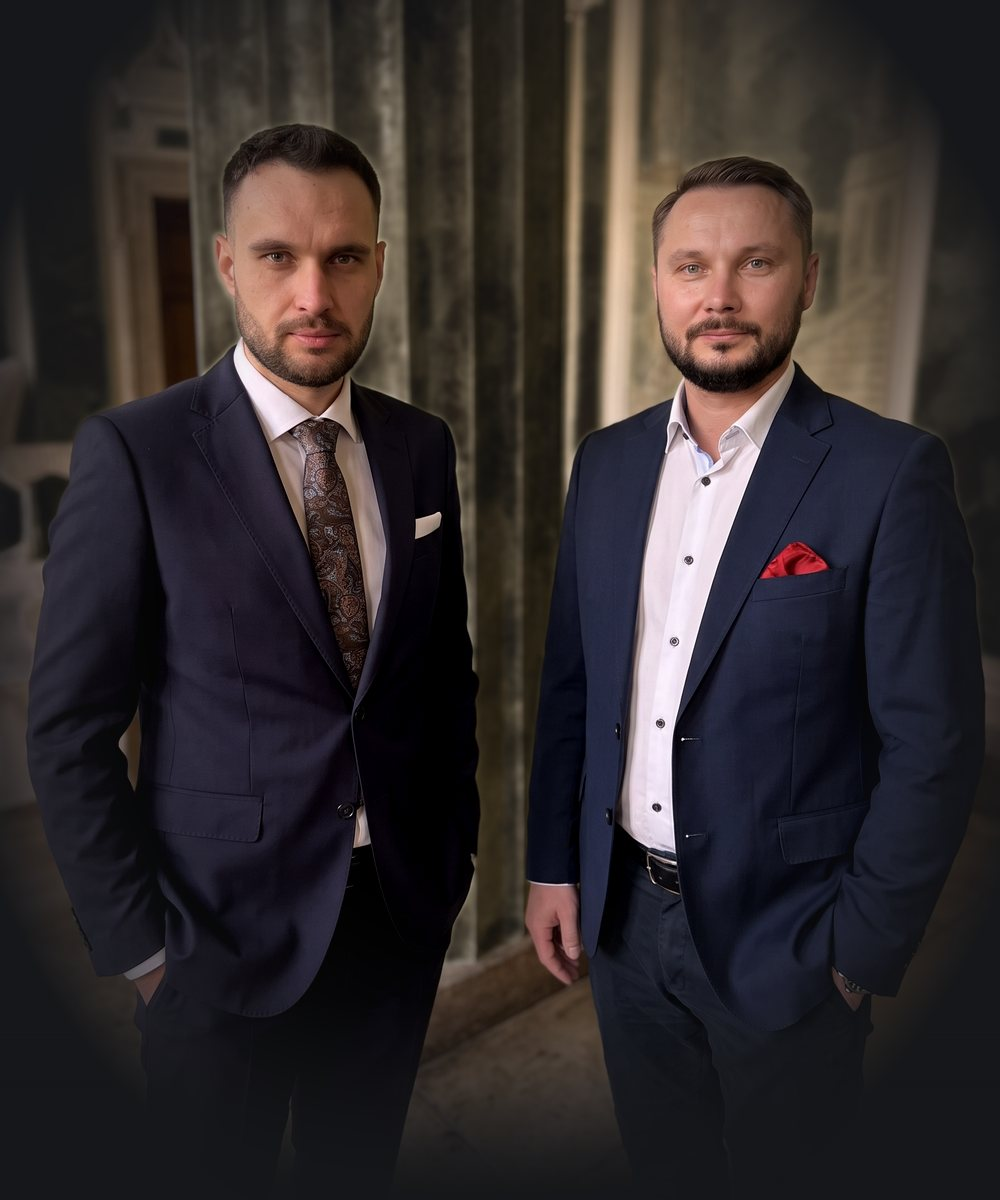
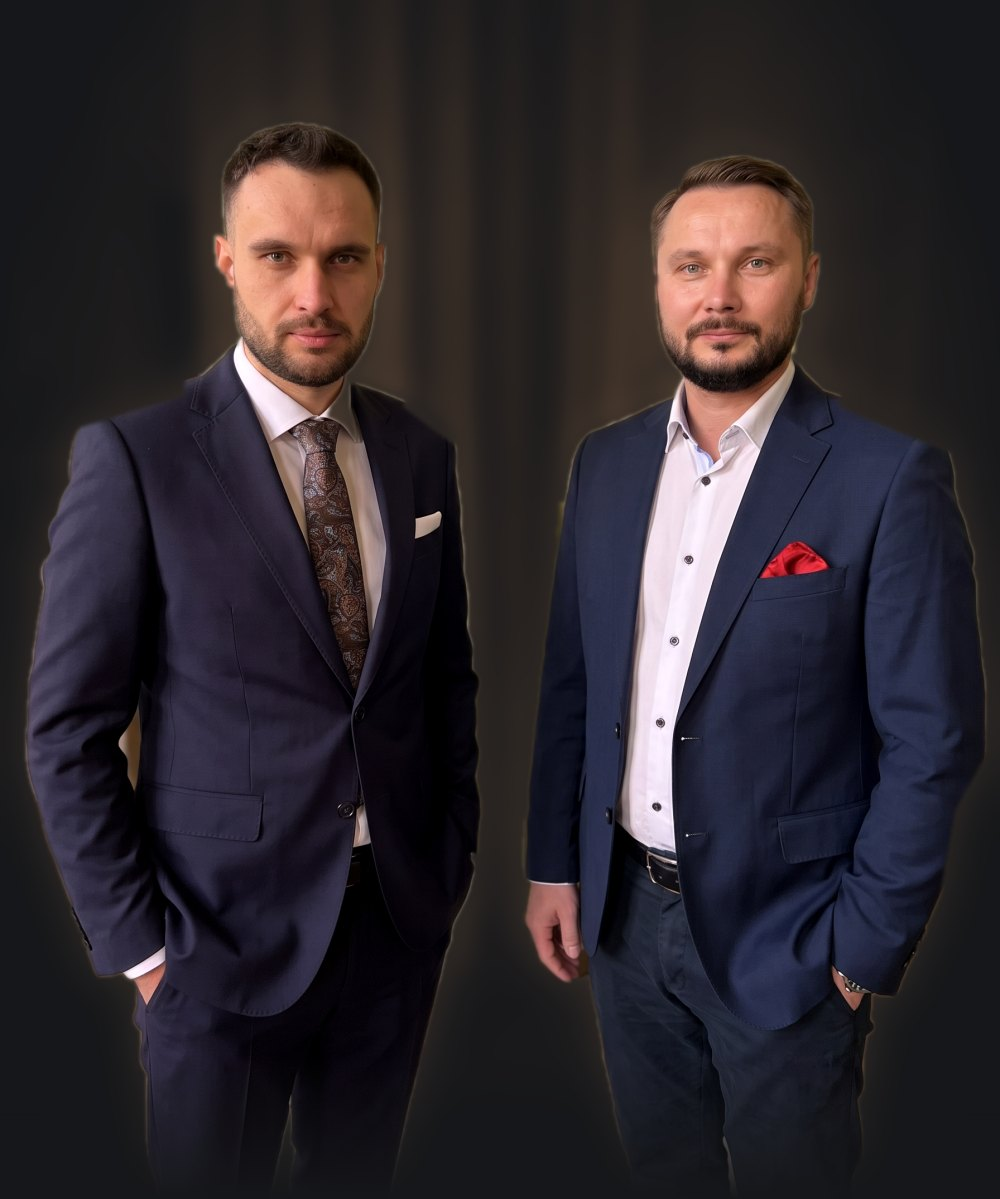
Zdjęcie doradców: wycięte sylwetki na ciemnym tle, bez winiety
Claude-Session: https://claude.ai/code/session_01RLm7QKgLdo8Pe8CztPjXyS

diff --git a/assets/site.css b/assets/site.css
@@ -540,7 +540,6 @@ footer a:hover{color:#fff}
 
 /* duo: joint photo blended into dark band */
 .duo-blend{margin:0;position:relative;max-width:520px;justify-self:center;width:100%}
-.duo-blend img{width:100%;height:auto;display:block;-webkit-mask-image:radial-gradient(ellipse closest-side at 50% 50%,#000 64%,transparent 100%);mask-image:radial-gradient(ellipse closest-side at 50% 50%,#000 64%,transparent 100%);filter:saturate(.95) contrast(1.02)}
-.duo-blend::before{content:"";position:absolute;inset:8% 6% 14%;background:radial-gradient(closest-side,rgba(217,185,142,.16),transparent 70%);filter:blur(30px);z-index:-1}
-.duo-blend figcaption{position:absolute;left:0;right:0;bottom:4%;text-align:center;font-family:var(--f-display);font-weight:700;font-size:15px;color:#fff}
+.duo-blend img{width:100%;height:auto;display:block;-webkit-mask-image:linear-gradient(90deg,transparent,#000 6%,#000 94%,transparent),linear-gradient(180deg,transparent,#000 9%);-webkit-mask-composite:source-in;mask-image:linear-gradient(90deg,transparent,#000 6%,#000 94%,transparent),linear-gradient(180deg,transparent,#000 9%);mask-composite:intersect}
+.duo-blend figcaption{position:absolute;left:0;right:0;bottom:3%;text-shadow:0 2px 12px rgba(0,0,0,.8);text-align:center;font-family:var(--f-display);font-weight:700;font-size:15px;color:#fff}
 .duo-blend figcaption span{display:block;font-family:var(--f-mono);font-weight:400;font-size:12px;color:#D9B98E;margin-top:2px}
